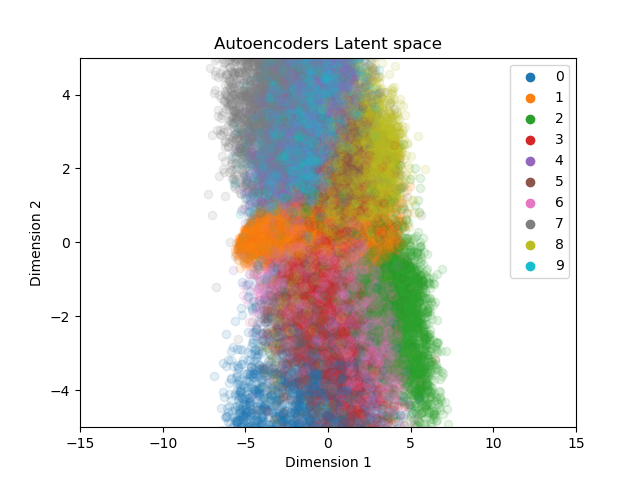
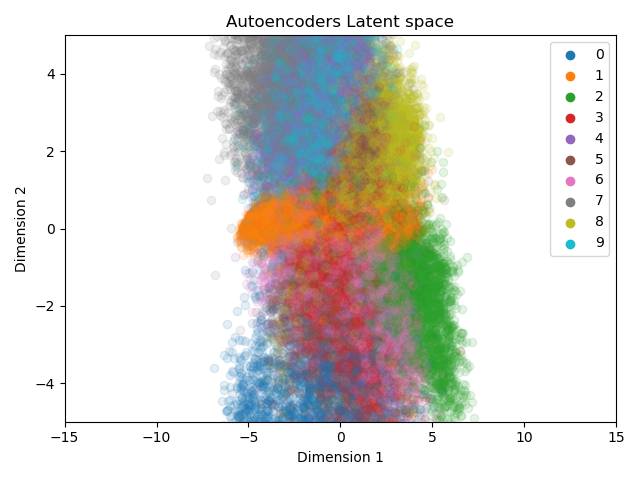
Update plots

diff --git a/HW4/HW4_code_solutions/autoencoders.py b/HW4/HW4_code_solutions/autoencoders.py
@@ -369,7 +369,7 @@ def A3b(epochs=5, learningRate=1e-3, batchSize=128, verbosity=5):
 def A3():
     """Runs part a and b of problem A3 in HW4"""
     A3a()
-#    A3b()
+    A3b()
 
 
 if __name__ == "__main__":
@@ -467,4 +467,4 @@ def extra_autoencoder(epochs=10, learningRate=1e-3, batchSize=1024):
     plt.show()
 
 
-#extra_autoencoder()
+extra_autoencoder()
